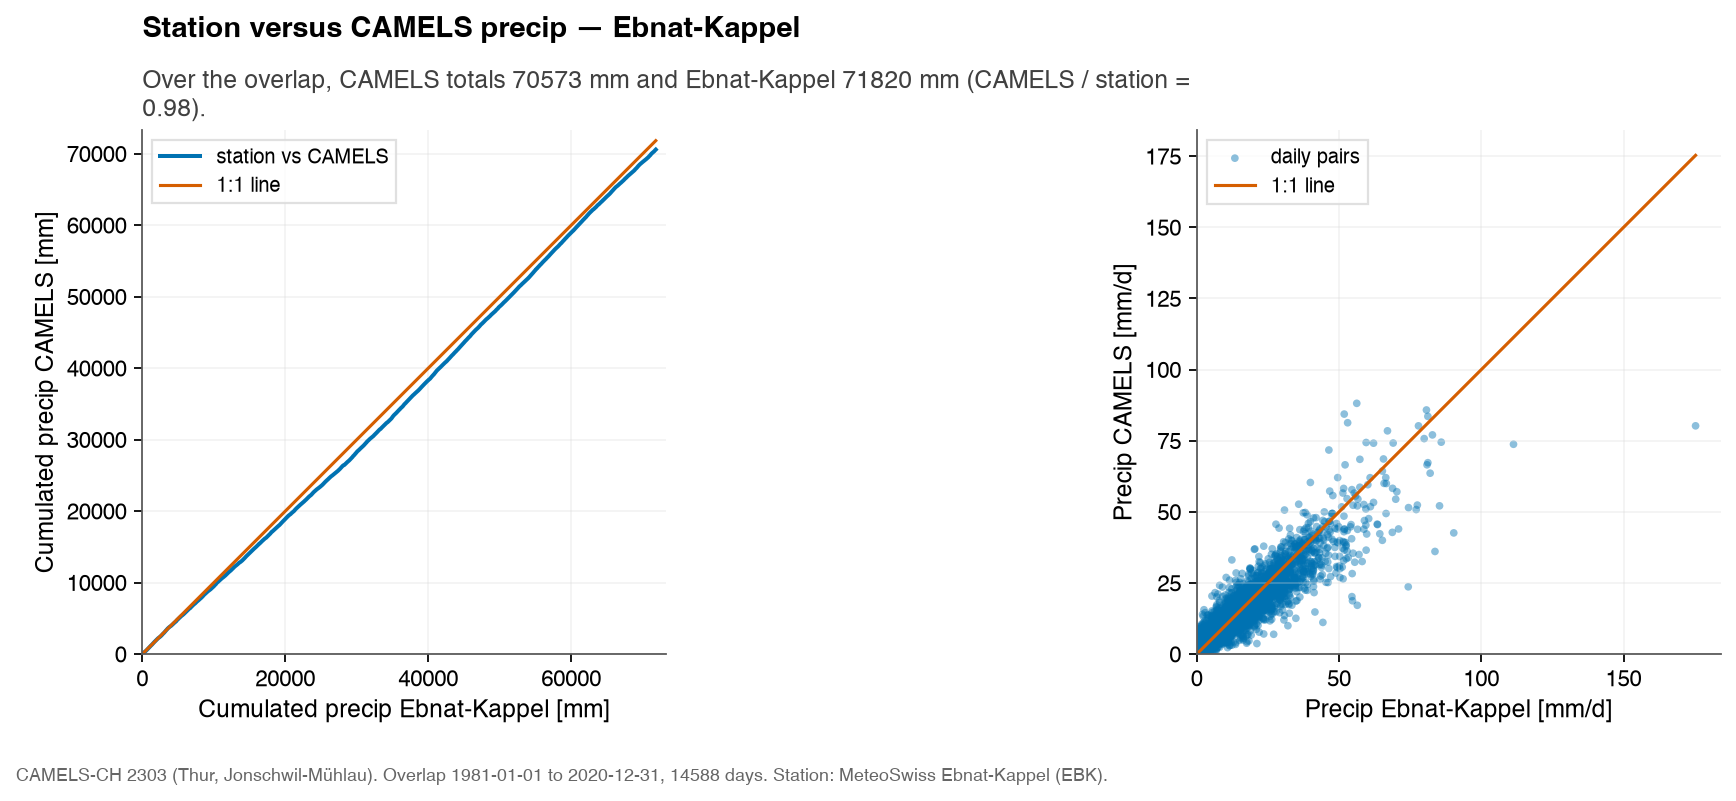
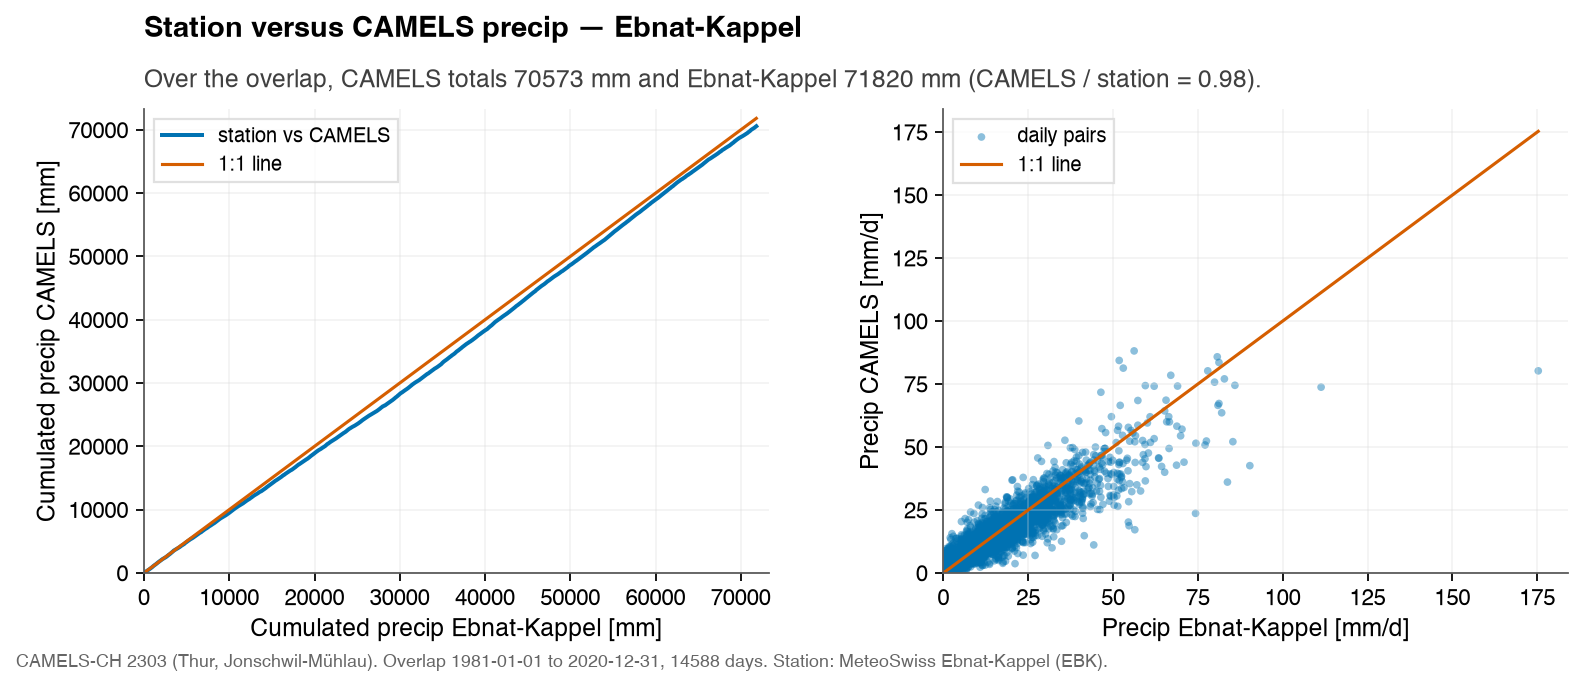
Refactor plotting function and update figure layout
- Adjusted subplot dimensions and margins for improved visual presentation in `plot_precip_compare.py`.
- Replaced the `set_title` function with direct figure title and subtitle settings for better control over layout.
- Updated the `savefig` method to maintain manual margins during figure saving.
- Updated binary figures to reflect the new plotting adjustments.

diff --git a/abgaben/group_ex_03/plot_precip_compare.py b/abgaben/group_ex_03/plot_precip_compare.py
@@ -18,7 +18,6 @@ from plot_style import (  # noqa: E402
     STORAGE_COLOR,
     apply_style,
     figure_note,
-    set_title,
 )
 
 HERE = Path(__file__).resolve().parent
@@ -50,7 +49,8 @@ def plot_compare(
     note: str,
 ) -> plt.Figure:
     """Cumulative 1:1 panel and daily scatter, as on the course slide."""
-    fig, (ax_c, ax_s) = plt.subplots(1, 2, figsize=(11, 5))
+    fig, (ax_c, ax_s) = plt.subplots(1, 2, figsize=(10, 4.2))
+    fig.subplots_adjust(left=0.09, right=0.98, bottom=0.15, top=0.84, wspace=0.28)
 
     cum_station = paired["P_station"].cumsum()
     cum_camels = paired["P_camels"].cumsum()
@@ -59,7 +59,6 @@ def plot_compare(
     ax_c.plot([0, limit], [0, limit], color=OUTFLOW_COLOR, lw=1.4, label="1:1 line")
     ax_c.set_xlabel(f"Cumulated precip {station_label} [mm]")
     ax_c.set_ylabel("Cumulated precip CAMELS [mm]")
-    ax_c.set_aspect("equal", adjustable="box")
     ax_c.set_xlim(0, limit * 1.02)
     ax_c.set_ylim(0, limit * 1.02)
     ax_c.grid(True, alpha=0.35)
@@ -79,17 +78,15 @@ def plot_compare(
     ax_s.plot([0, day_limit], [0, day_limit], color=OUTFLOW_COLOR, lw=1.4, label="1:1 line")
     ax_s.set_xlabel(f"Precip {station_label} [mm/d]")
     ax_s.set_ylabel("Precip CAMELS [mm/d]")
-    ax_s.set_aspect("equal", adjustable="box")
     ax_s.set_xlim(0, day_limit * 1.05)
     ax_s.set_ylim(0, day_limit * 1.05)
     ax_s.grid(True, alpha=0.35)
     ax_s.spines["right"].set_visible(False)
     ax_s.legend(loc="upper left")
 
-    set_title(ax_c, title, subtitle=subtitle)
-    ax_s.set_title("")  # title sits on the left panel only
+    fig.suptitle(title, fontweight="bold", x=0.09, ha="left", fontsize=13, y=0.98)
+    fig.text(0.09, 0.90, subtitle, fontsize=11, color="0.25", ha="left", va="top")
     figure_note(fig, note)
-    fig.tight_layout(rect=[0, 0.05, 1, 1])
     return fig
 
 
@@ -146,7 +143,8 @@ def main() -> None:
             ),
         )
         out = args.out_dir / f"precip_compare_{args.gauge}_{key}.png"
-        fig.savefig(out)
+        # Keep the manual margins; global savefig.bbox=tight would re-open the gap.
+        fig.savefig(out, bbox_inches=None)
         plt.close(fig)
         print(f"Saved: {out}")
         print(subtitle)
